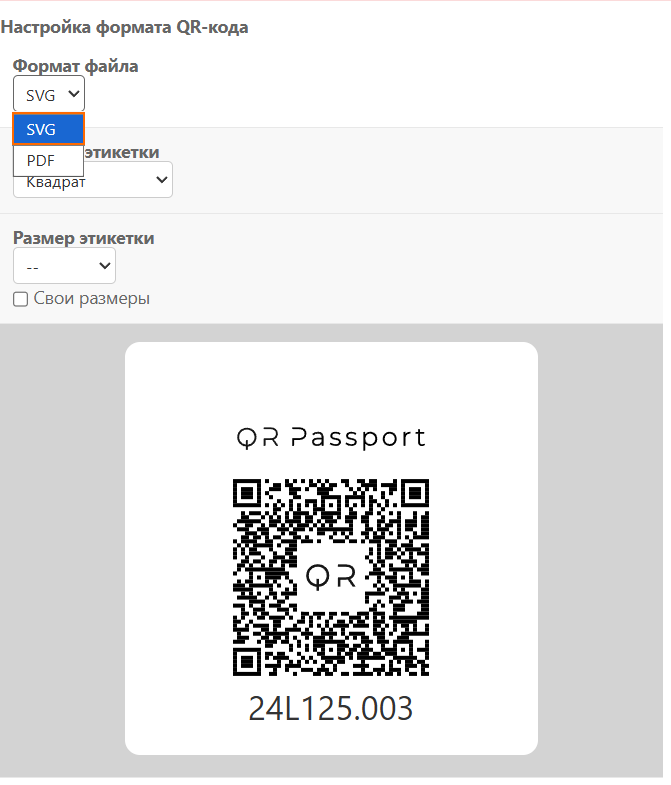
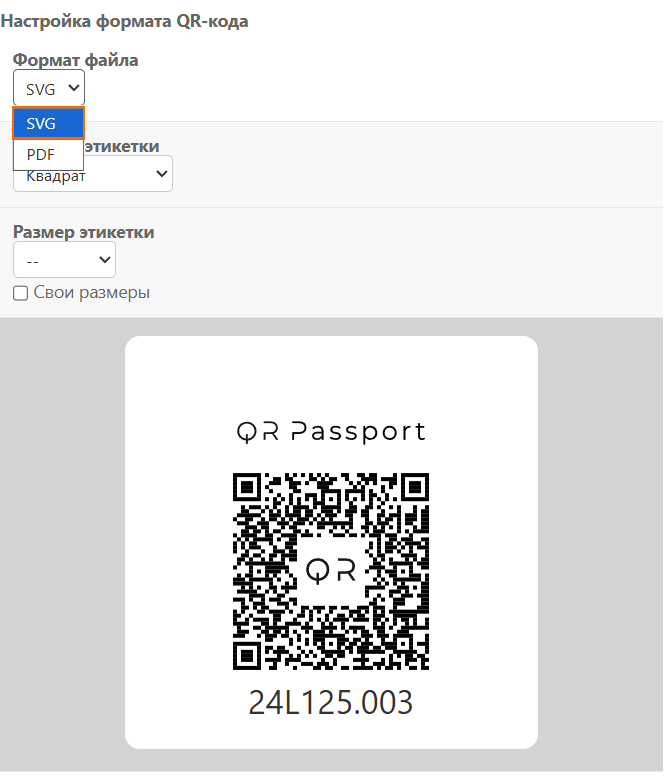
Изменение размера рисунка для SVG

diff --git a/docs/ru/updates.md b/docs/ru/updates.md
@@ -4,7 +4,7 @@
 
 Добавлена возможность выбора формата файла при [скачивании QR-кода](equipment/registered_products.md#skachivanie-qr-koda/qr-kodov). Это позволяет использовать QR-коды не только для печати на принтерах, но и в производственных процессах, где требуется векторная графика – например, для нанесения на оборудование методами лазерной гравировки или фрезеровки.
 
-![SVG формат](./_images/updates_2.png)
+![SVG формат](./_images/updates_2.png){width=100 height=100}
 
 
 ## Сентябрь 2025
